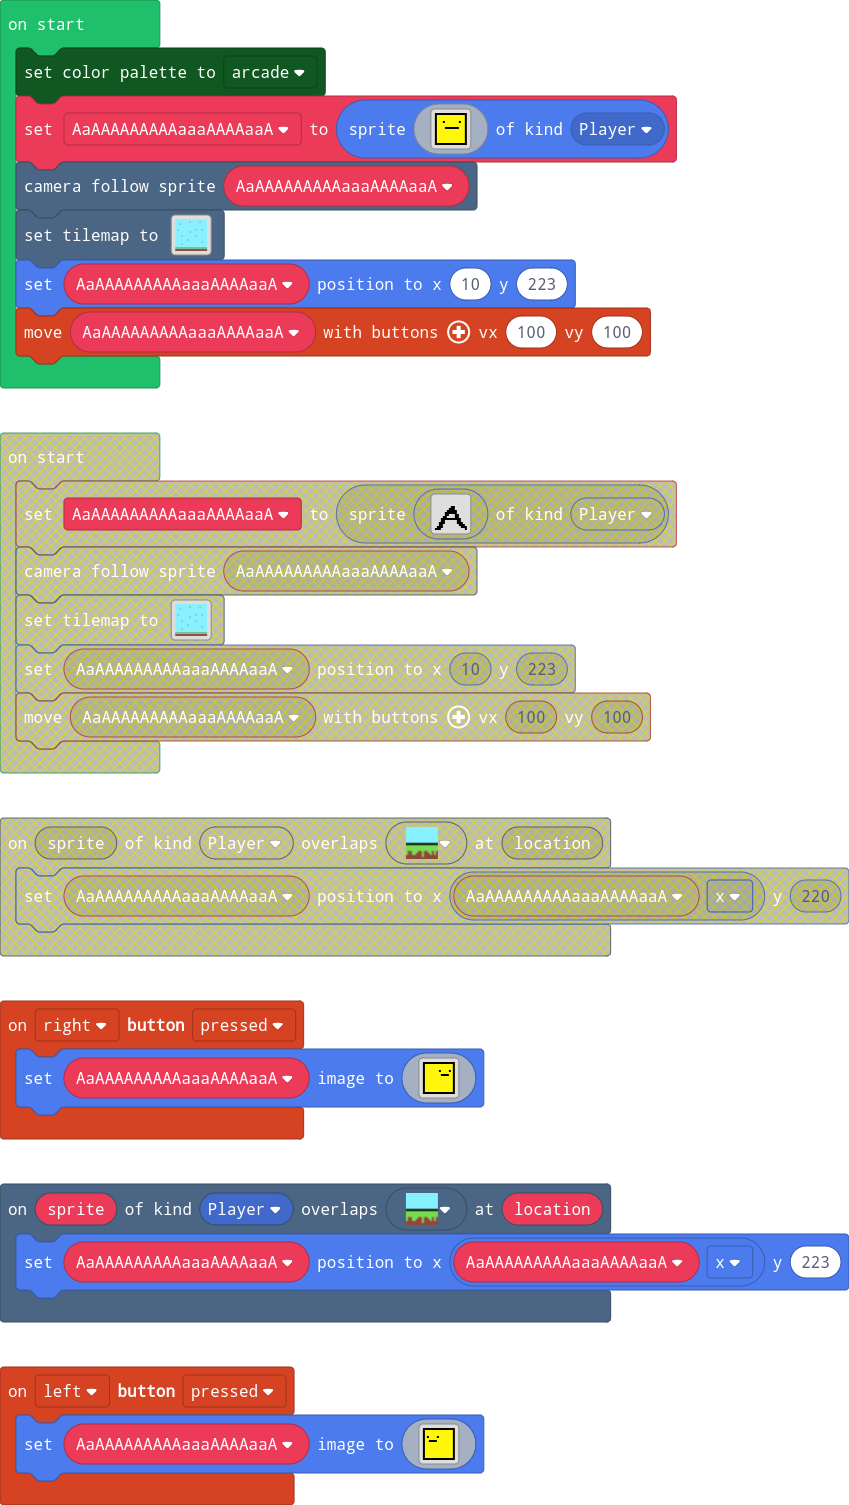
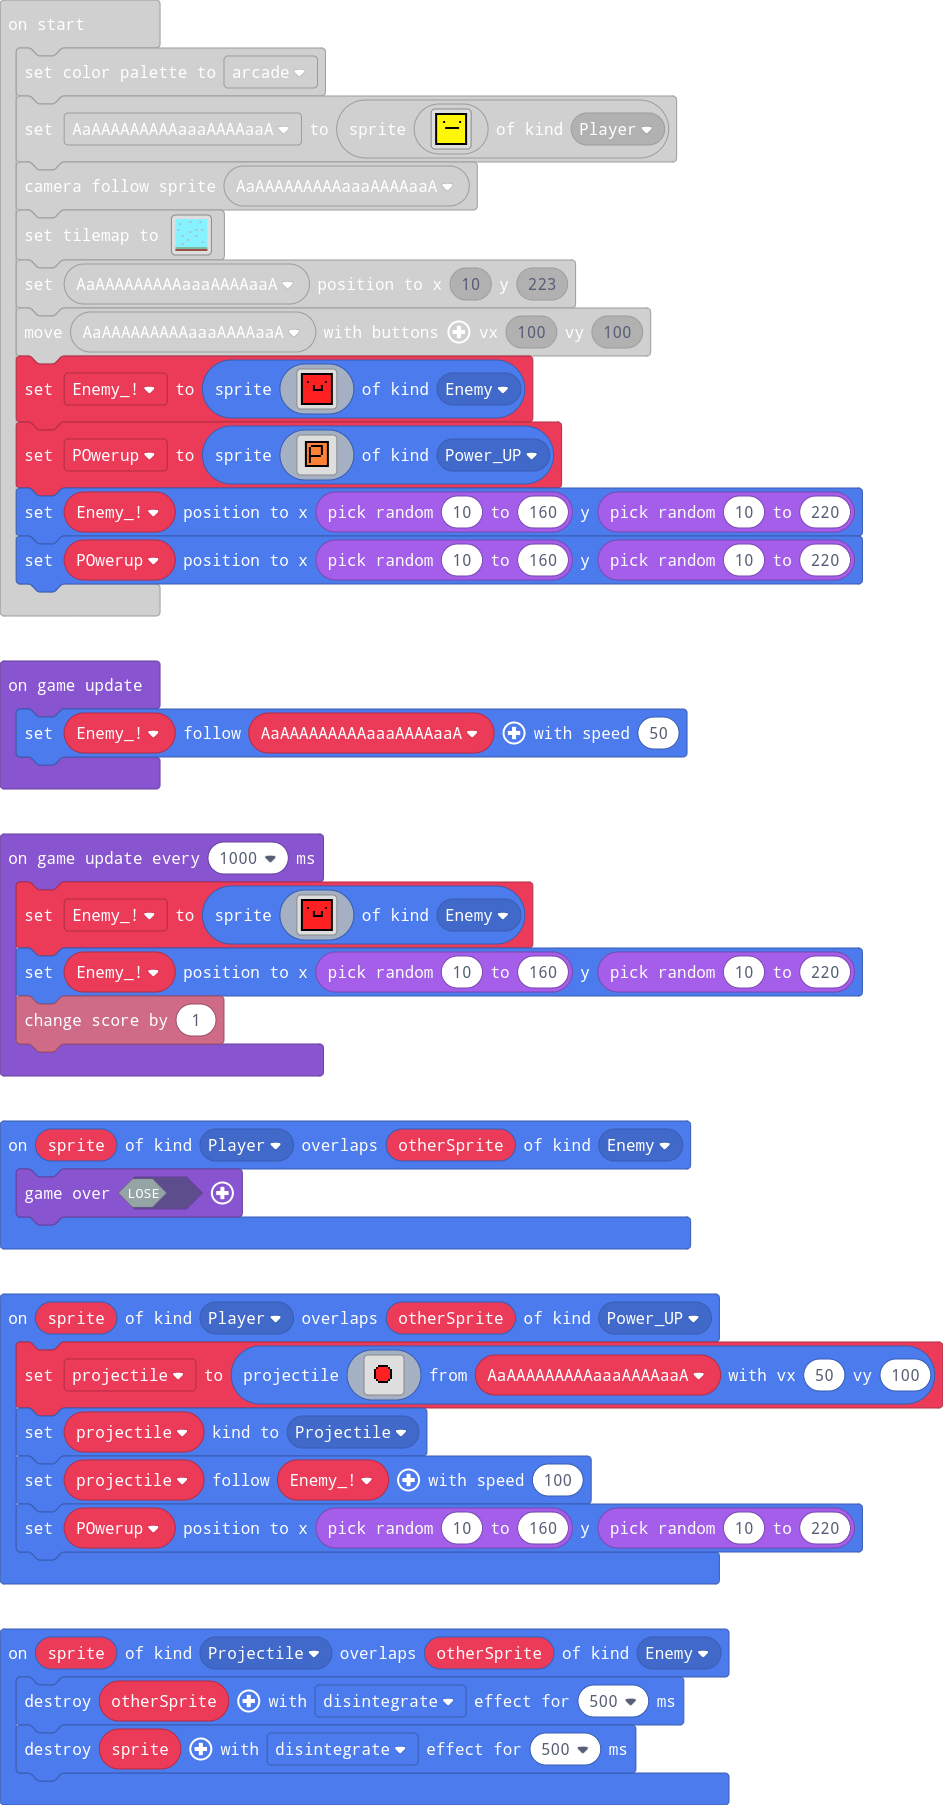
Fixed

diff --git a/main.ts b/main.ts
@@ -1,3 +1,6 @@
+namespace SpriteKind {
+    export const Power_UP = SpriteKind.create()
+}
 namespace myTiles {
     //% blockIdentity=images._tile
     export const tile0 = img`
@@ -115,6 +118,13 @@ f 5 5 5 5 5 5 5 5 5 5 5 5 5 5 f
 f f f f f f f f f f f f f f f f 
 `)
 })
+sprites.onOverlap(SpriteKind.Projectile, SpriteKind.Enemy, function (sprite, otherSprite) {
+    otherSprite.destroy(effects.disintegrate, 500)
+    sprite.destroy(effects.disintegrate, 500)
+})
+sprites.onOverlap(SpriteKind.Player, SpriteKind.Enemy, function (sprite, otherSprite) {
+    game.over(false)
+})
 controller.right.onEvent(ControllerButtonEvent.Pressed, function () {
     AaAAAAAAAAAaaaAAAAaaA.setImage(img`
 f f f f f f f f f f f f f f f f 
@@ -135,9 +145,35 @@ f 5 5 5 5 5 5 5 5 5 5 5 5 5 5 f
 f f f f f f f f f f f f f f f f 
 `)
 })
+sprites.onOverlap(SpriteKind.Player, SpriteKind.Power_UP, function (sprite, otherSprite) {
+    projectile = sprites.createProjectileFromSprite(img`
+. . . . . . . . . . . . . . . . 
+. . . . . . . . . . . . . . . . 
+. . . . . . . . . . . . . . . . 
+. . . . . f f f f f . . . . . . 
+. . . . f 2 2 2 2 2 f . . . . . 
+. . . f 2 2 2 2 2 2 2 f . . . . 
+. . . f 2 2 2 2 2 2 2 f . . . . 
+. . . f 2 2 2 2 2 2 2 f . . . . 
+. . . f 2 2 2 2 2 2 2 f . . . . 
+. . . f 2 2 2 2 2 2 2 f . . . . 
+. . . . f 2 2 2 2 2 f . . . . . 
+. . . . . f f f f f . . . . . . 
+. . . . . . . . . . . . . . . . 
+. . . . . . . . . . . . . . . . 
+. . . . . . . . . . . . . . . . 
+. . . . . . . . . . . . . . . . 
+`, AaAAAAAAAAAaaaAAAAaaA, 50, 100)
+    projectile.setKind(SpriteKind.Projectile)
+    projectile.follow(Enemy_, 100)
+    POwerup.setPosition(Math.randomRange(10, 160), Math.randomRange(10, 220))
+})
 scene.onOverlapTile(SpriteKind.Player, myTiles.tile2, function (sprite, location) {
     AaAAAAAAAAAaaaAAAAaaA.setPosition(AaAAAAAAAAAaaaAAAAaaA.x, 223)
 })
+let projectile: Sprite = null
+let POwerup: Sprite = null
+let Enemy_: Sprite = null
 let AaAAAAAAAAAaaaAAAAaaA: Sprite = null
 color.setPalette(
 color.Arcade
@@ -186,3 +222,66 @@ tiles.setTilemap(tiles.createTilemap(
         ))
 AaAAAAAAAAAaaaAAAAaaA.setPosition(10, 223)
 controller.moveSprite(AaAAAAAAAAAaaaAAAAaaA, 100, 100)
+Enemy_ = sprites.create(img`
+f f f f f f f f f f f f f f f f 
+f 2 2 2 2 2 2 2 2 2 2 2 2 2 2 f 
+f 2 2 2 2 2 2 2 2 2 2 2 2 2 2 f 
+f 2 2 2 2 2 2 2 2 2 2 2 2 2 2 f 
+f 2 2 f 2 2 2 2 2 2 2 2 f 2 2 f 
+f 2 2 2 2 2 2 2 2 2 2 2 2 2 2 f 
+f 2 2 2 2 2 f 2 2 2 f 2 2 2 2 f 
+f 2 2 2 2 2 f 2 2 2 f 2 2 2 2 f 
+f 2 2 2 2 2 f f f f f 2 2 2 2 f 
+f 2 2 2 2 2 2 2 2 2 2 2 2 2 2 f 
+f 2 2 2 2 2 2 2 2 2 2 2 2 2 2 f 
+f 2 2 2 2 2 2 2 2 2 2 2 2 2 2 f 
+f 2 2 2 2 2 2 2 2 2 2 2 2 2 2 f 
+f 2 2 2 2 2 2 2 2 2 2 2 2 2 2 f 
+f 2 2 2 2 2 2 2 2 2 2 2 2 2 2 f 
+f f f f f f f f f f f f f f f f 
+`, SpriteKind.Enemy)
+POwerup = sprites.create(img`
+. . . . . . . . . . . . . . . . 
+. . f f f f f f f f f f f f . . 
+. . f 4 4 4 4 4 4 4 4 4 4 f . . 
+. . f 4 4 f f f f f f 4 4 f . . 
+. . f 4 f 4 4 4 4 4 f 4 4 f . . 
+. . f 4 f 4 4 4 4 4 f 4 4 f . . 
+. . f 4 f 4 4 4 4 4 f 4 4 f . . 
+. . f 4 f 4 4 4 4 4 f 4 4 f . . 
+. . f 4 f f f f f f 4 4 4 f . . 
+. . f 4 f 4 4 4 4 4 4 4 4 f . . 
+. . f 4 f 4 4 4 4 4 4 4 4 f . . 
+. . f 4 f 4 4 4 4 4 4 4 4 f . . 
+. . f 4 4 4 4 4 4 4 4 4 4 f . . 
+. . f f f f f f f f f f f f . . 
+. . . . . . . . . . . . . . . . 
+. . . . . . . . . . . . . . . . 
+`, SpriteKind.Power_UP)
+Enemy_.setPosition(Math.randomRange(10, 160), Math.randomRange(10, 220))
+POwerup.setPosition(Math.randomRange(10, 160), Math.randomRange(10, 220))
+game.onUpdate(function () {
+    Enemy_.follow(AaAAAAAAAAAaaaAAAAaaA, 50)
+})
+game.onUpdateInterval(1000, function () {
+    Enemy_ = sprites.create(img`
+f f f f f f f f f f f f f f f f 
+f 2 2 2 2 2 2 2 2 2 2 2 2 2 2 f 
+f 2 2 2 2 2 2 2 2 2 2 2 2 2 2 f 
+f 2 2 2 2 2 2 2 2 2 2 2 2 2 2 f 
+f 2 2 f 2 2 2 2 2 2 2 2 f 2 2 f 
+f 2 2 2 2 2 2 2 2 2 2 2 2 2 2 f 
+f 2 2 2 2 2 f 2 2 2 f 2 2 2 2 f 
+f 2 2 2 2 2 f 2 2 2 f 2 2 2 2 f 
+f 2 2 2 2 2 f f f f f 2 2 2 2 f 
+f 2 2 2 2 2 2 2 2 2 2 2 2 2 2 f 
+f 2 2 2 2 2 2 2 2 2 2 2 2 2 2 f 
+f 2 2 2 2 2 2 2 2 2 2 2 2 2 2 f 
+f 2 2 2 2 2 2 2 2 2 2 2 2 2 2 f 
+f 2 2 2 2 2 2 2 2 2 2 2 2 2 2 f 
+f 2 2 2 2 2 2 2 2 2 2 2 2 2 2 f 
+f f f f f f f f f f f f f f f f 
+`, SpriteKind.Enemy)
+    Enemy_.setPosition(Math.randomRange(10, 160), Math.randomRange(10, 220))
+    info.changeScoreBy(1)
+})
